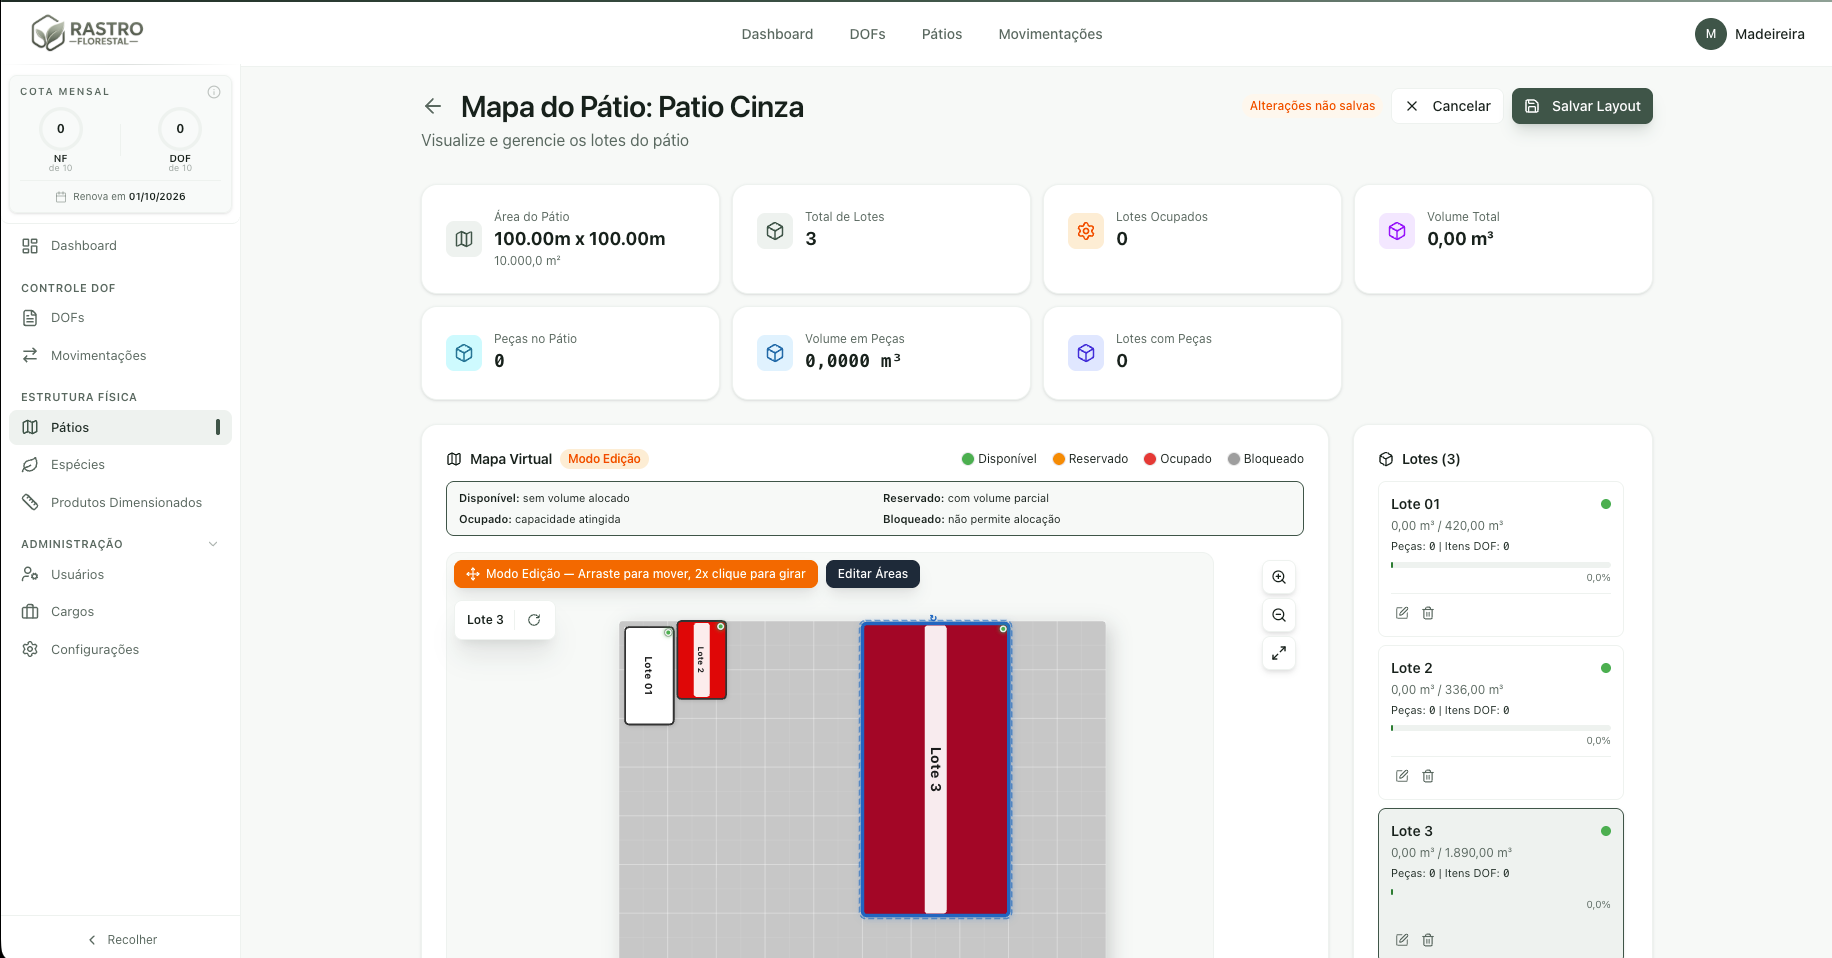
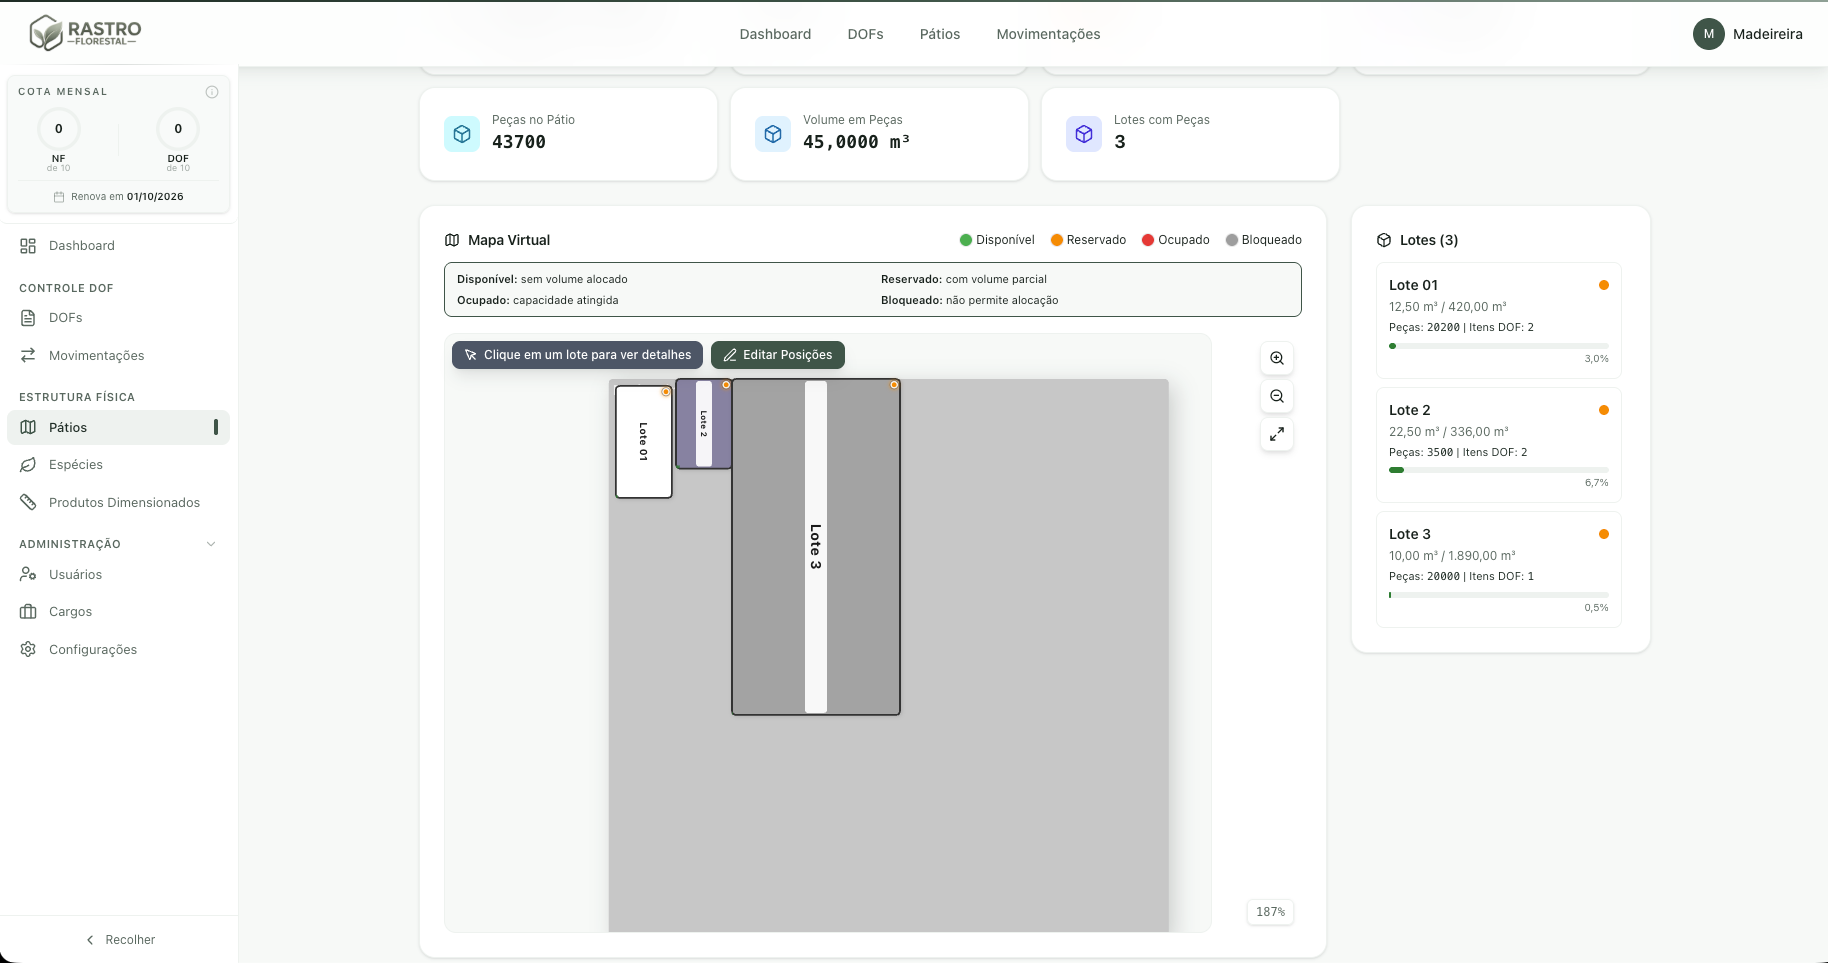
refactor: move o ProjectImageCarousel do card para a visualização de detalhes e atualiza as screenshots dos projetos

diff --git a/src/data/projects.ts b/src/data/projects.ts
@@ -28,7 +28,7 @@ export const PROJECTS: readonly Project[] = [
       "SaaS multi-empresa para madeireiras com conformidade DOF/IBAMA, estoque duplo e mapa visual de pátio.",
     fullDescription:
       "SaaS multi-empresa para madeireiras e serrarias reguladas pelo IBAMA. Une conformidade legal do DOF (Documento de Origem Florestal) com a operação real de pátio: controla saldo legal em m³ e estoque físico em peças simultaneamente, com mapa visual do pátio em canvas, movimentações auditáveis e relatórios para fiscalização.",
-    image: "/assets/rastro-florestal-patio-lote.png",
+    image: "/assets/rastro-florestal.png",
     technologies: [
       "Laravel 11",
       "PHP 8.2",
@@ -92,16 +92,34 @@ export const PROJECTS: readonly Project[] = [
       "Desenvolvimento Full Stack: arquitetura do backend em Laravel (regras de negócio, estoque duplo, alocação DOF-lote, RBAC e relatórios) e frontend em React + TypeScript (dashboard operacional, mapa de pátio em canvas, fluxos de saída e painel administrativo).",
     screenshots: [
       {
-        src: "/assets/rastro-florestal-patio-lote.png",
-        alt: "Mapa do Pátio Cinza em modo de edição, com três lotes posicionados no canvas",
+        src: "/assets/rastro-florestal-movimentacoes.png",
+        alt: "Histórico de movimentações com 8 entradas, volume filtrado e relatórios em PDF e Excel",
         caption:
-          "Edição do layout do pátio: posicionamento e rotação de lotes no canvas. A captura mostra a configuração do espaço, ainda sem estoque alocado.",
+          "Movimentações com dados de demonstração: histórico imutável de entradas, filtros por tipo e relatórios em PDF e Excel.",
+      },
+      {
+        src: "/assets/rastro-florestal-movimentacoes-dimencao.png",
+        alt: "Peças dimensionadas no Lote 2 com 3.500 peças e volumes por produto",
+        caption:
+          "Estoque físico no lote: 3.500 peças distribuídas por produto dimensionado, com volume individual em m³.",
+      },
+      {
+        src: "/assets/rastro-florestal-patio-lote-descricao.png",
+        alt: "Alocações de DOF no Lote 2 com 22,5 m³ distribuídos em 4 documentos",
+        caption:
+          "Estoque legal no lote: 22,5 m³ vinculados a 4 DOFs, com status, ocupação e itens com peças.",
       },
       {
         src: "/assets/rastro-florestal-produto-dimensionado.png",
         alt: "Lista de produtos dimensionados com espécies, dimensões e volume unitário em metros cúbicos",
         caption:
           "Cadastro de produtos dimensionados: espécies vinculadas e volume unitário utilizado na conversão entre peças e metros cúbicos.",
+      },
+      {
+        src: "/assets/rastro-florestal-patio-lote.png",
+        alt: "Mapa do Pátio Cinza em modo de edição, com três lotes posicionados no canvas",
+        caption:
+          "Edição do layout do pátio: posicionamento e rotação de lotes no canvas.",
       },
       {
         src: "/assets/rastro-florestal-patio-cinza.png",

diff --git a/src/app/projetos/[slug]/page.tsx b/src/app/projetos/[slug]/page.tsx
@@ -1,8 +1,9 @@
 import React from "react";
 import type { Metadata } from "next";
-import Image from "next/image";
 import Link from "next/link";
 import { notFound } from "next/navigation";
+import { ProjectImageCarousel } from "@/components/ui/ProjectImageCarousel";
+import { ProjectScreenshot } from "@/types/project";
 import {
   getAllProjects,
   getProjectBySlug,
@@ -82,6 +83,16 @@ export default async function ProjectPage({ params }: ProjectPageProps) {
     allProjects.length > 1
       ? allProjects[(currentIndex - 1 + allProjects.length) % allProjects.length]
       : undefined;
+
+  const projectImages: readonly ProjectScreenshot[] = [
+    {
+      src: project.image,
+      alt: `Imagem principal do projeto ${project.title}`,
+    },
+    ...(project.screenshots ?? []).filter(
+      (image) => image.src !== project.image
+    ),
+  ];
 
   return (
     <article className="max-w-4xl mx-auto px-5 sm:px-8 lg:px-10 py-12 sm:py-16 space-y-12">
@@ -222,13 +233,11 @@ export default async function ProjectPage({ params }: ProjectPageProps) {
         )}
 
         <div className="relative aspect-[16/9] w-full overflow-hidden rounded-xl border border-border bg-surface-secondary">
-          <Image
-            src={project.image}
-            alt={`Imagem principal do projeto ${project.title}`}
-            fill
-            preload
+          <ProjectImageCarousel
+            images={projectImages}
+            projectTitle={project.title}
+            priority
             sizes="(max-width: 768px) 100vw, 896px"
-            className="object-contain object-center"
           />
         </div>
       </header>

diff --git a/src/components/ui/ProjectCard.tsx b/src/components/ui/ProjectCard.tsx
@@ -1,10 +1,9 @@
 import React from "react";
+import Image from "next/image";
 import { Project } from "@/types/project";
 import { getProjectKindLabel } from "@/data/projects";
 import { Badge } from "@/components/ui/Badge";
 import { Button } from "@/components/ui/Button";
-import { ProjectImageCarousel } from "@/components/ui/ProjectImageCarousel";
-import { ProjectScreenshot } from "@/types/project";
 
 interface ProjectCardProps {
   project: Project;
@@ -20,21 +19,17 @@ export function ProjectCard({ project, priority = false }: ProjectCardProps) {
   );
   const remainingCount =
     project.technologies.length - visibleTechnologies.length;
-  const projectImages: readonly ProjectScreenshot[] = [
-    {
-      src: project.image,
-      alt: `Demonstração visual do projeto ${project.title}`,
-    },
-    ...(project.screenshots ?? []).filter((image) => image.src !== project.image),
-  ];
 
   return (
     <article className="group flex flex-col overflow-hidden rounded-xl border border-border bg-surface transition-colors duration-200 hover:border-accent/60">
       <div className="relative aspect-[16/10] w-full overflow-hidden bg-surface-secondary">
-        <ProjectImageCarousel
-          images={projectImages}
-          projectTitle={project.title}
-          priority={priority}
+        <Image
+          src={project.image}
+          alt={`Demonstração visual do projeto ${project.title}`}
+          fill
+          preload={priority}
+          sizes="(max-width: 768px) 100vw, (max-width: 1280px) 50vw, 360px"
+          className="object-contain object-center"
         />
       </div>
 

diff --git a/src/components/ui/ProjectImageCarousel.tsx b/src/components/ui/ProjectImageCarousel.tsx
@@ -8,6 +8,7 @@ interface ProjectImageCarouselProps {
   images: readonly ProjectScreenshot[];
   projectTitle: string;
   priority: boolean;
+  sizes?: string;
 }
 
 function subscribeToMotionPreference(callback: () => void) {
@@ -24,6 +25,7 @@ export function ProjectImageCarousel({
   images,
   projectTitle,
   priority,
+  sizes = "(max-width: 768px) 100vw, (max-width: 1280px) 50vw, 360px",
 }: ProjectImageCarouselProps) {
   const [activeIndex, setActiveIndex] = useState(0);
   const [isPaused, setIsPaused] = useState(false);
@@ -67,7 +69,7 @@ export function ProjectImageCarousel({
             alt={image.alt || `Demonstração visual do projeto ${projectTitle}`}
             fill
             preload={priority && index === 0}
-            sizes="(max-width: 768px) 100vw, (max-width: 1280px) 50vw, 360px"
+            sizes={sizes}
             className={`object-contain object-center transition-opacity duration-700 ease-in-out ${
               activeIndex === index ? "opacity-100" : "opacity-0"
             }`}
